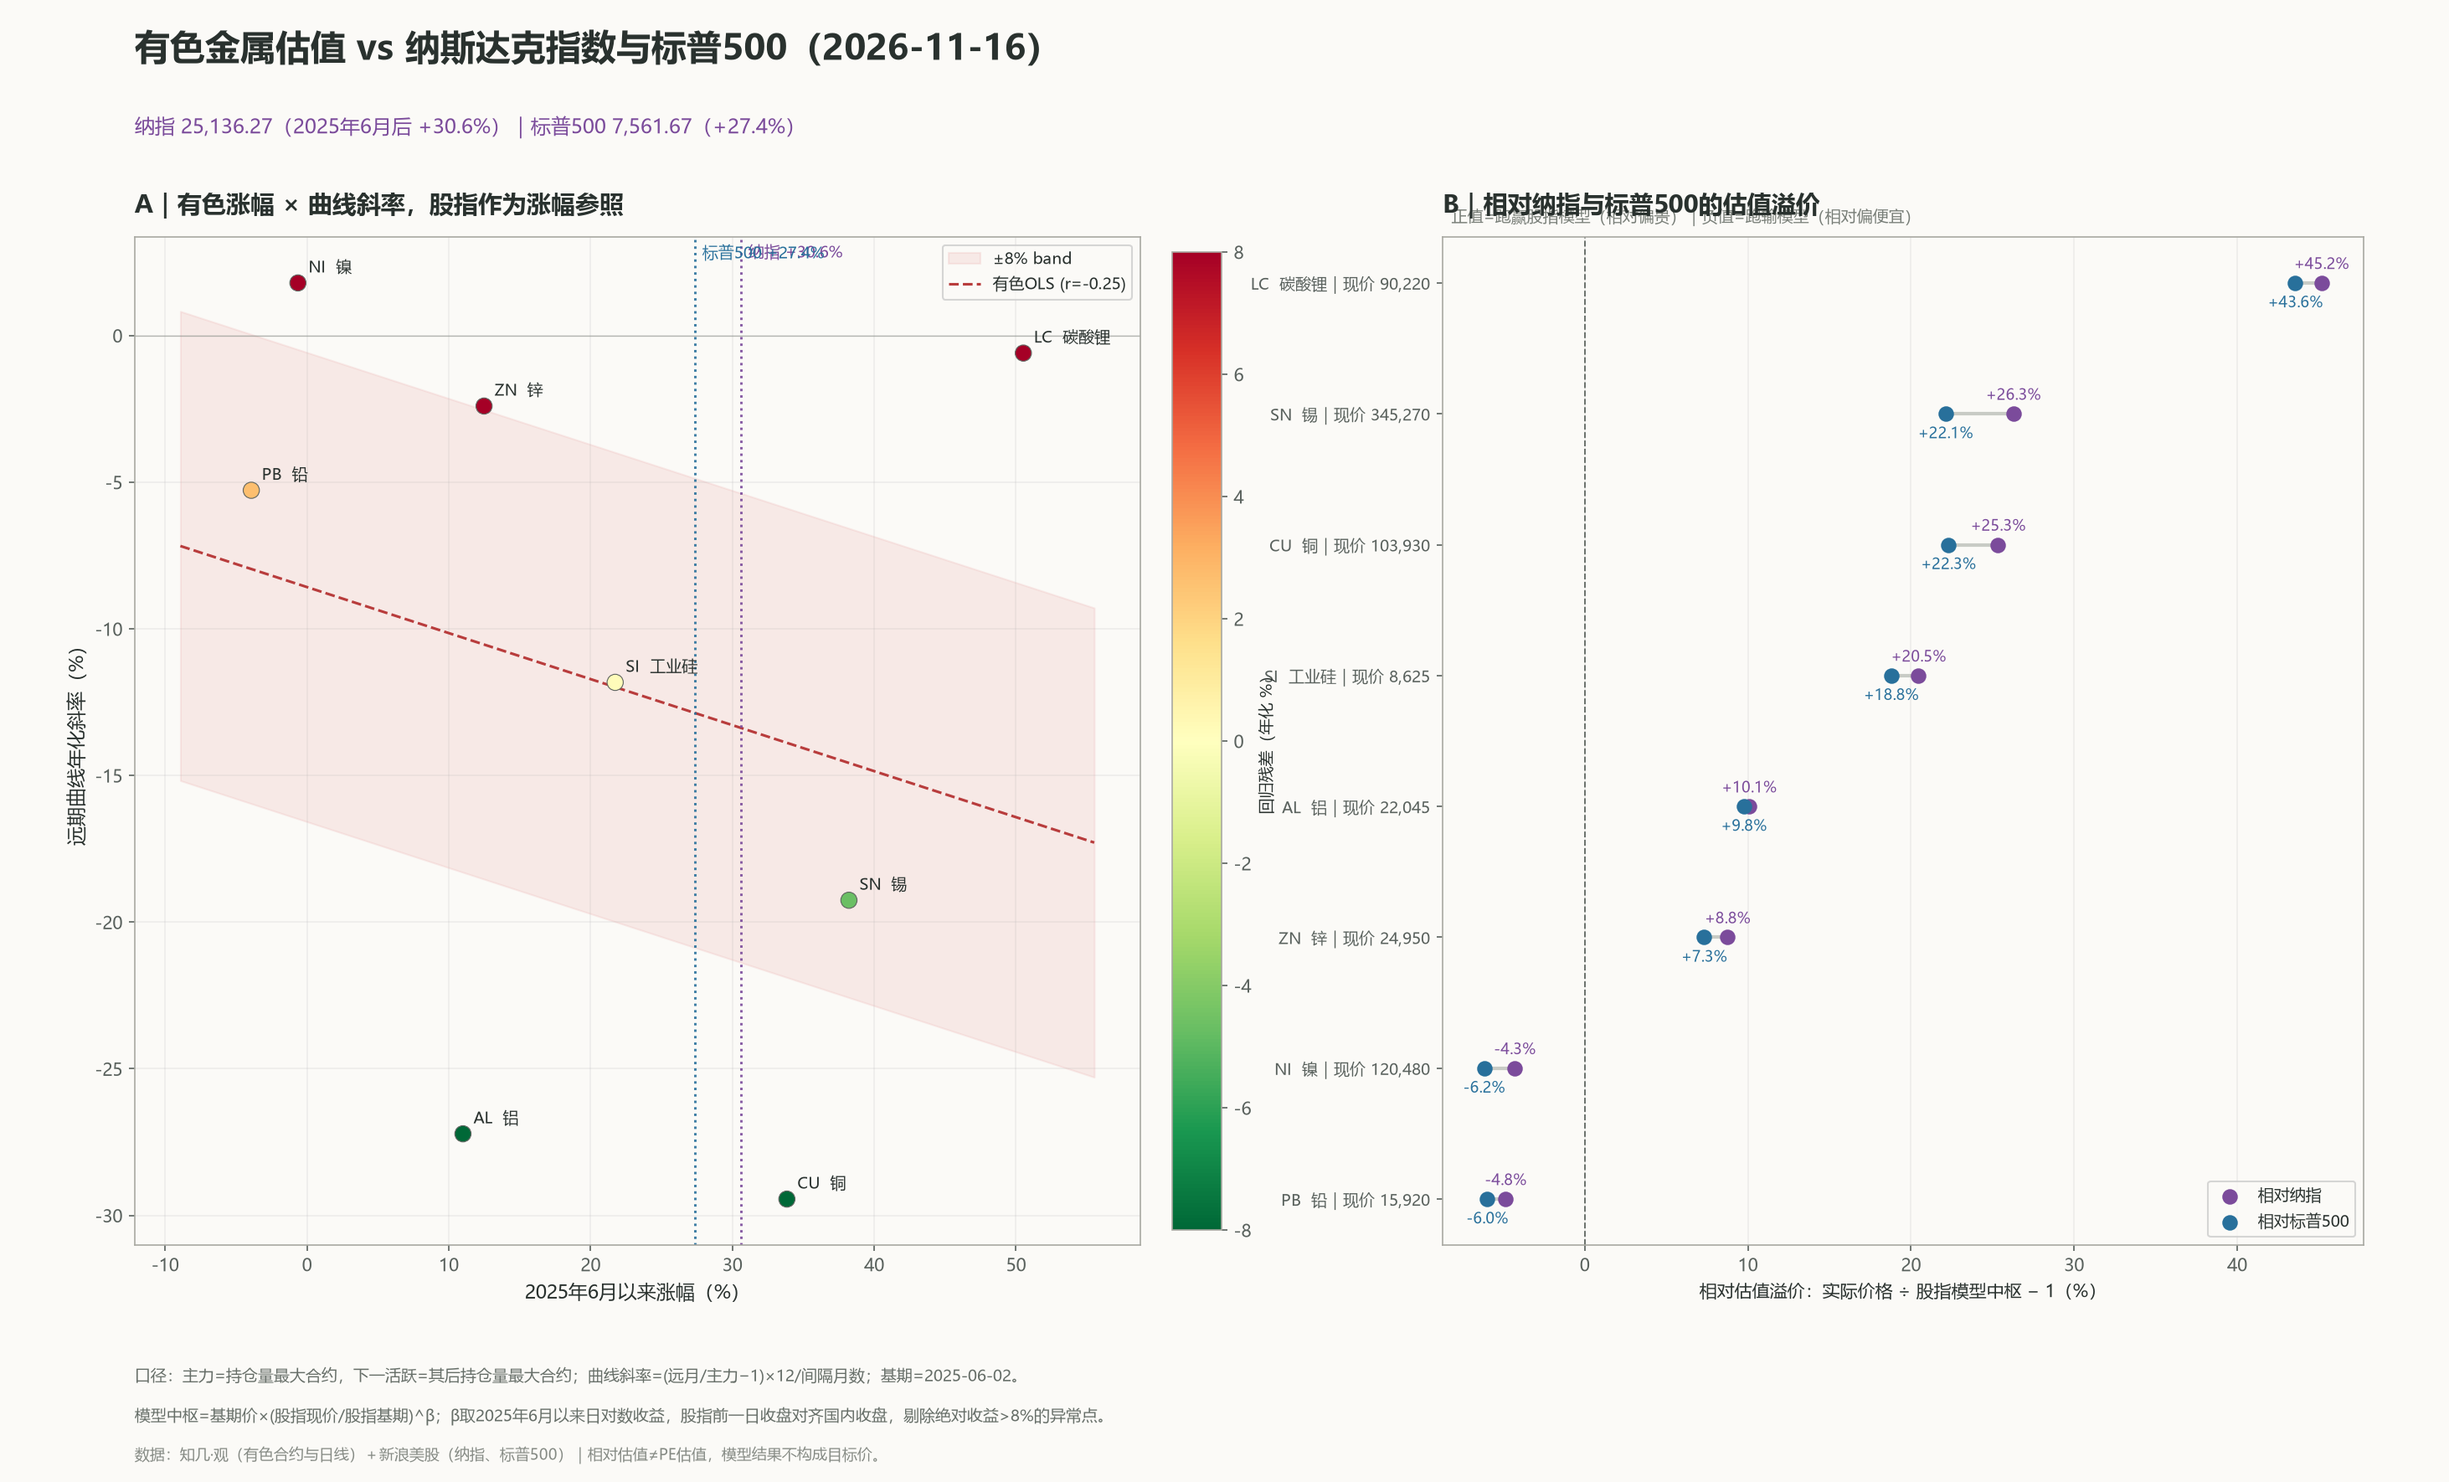
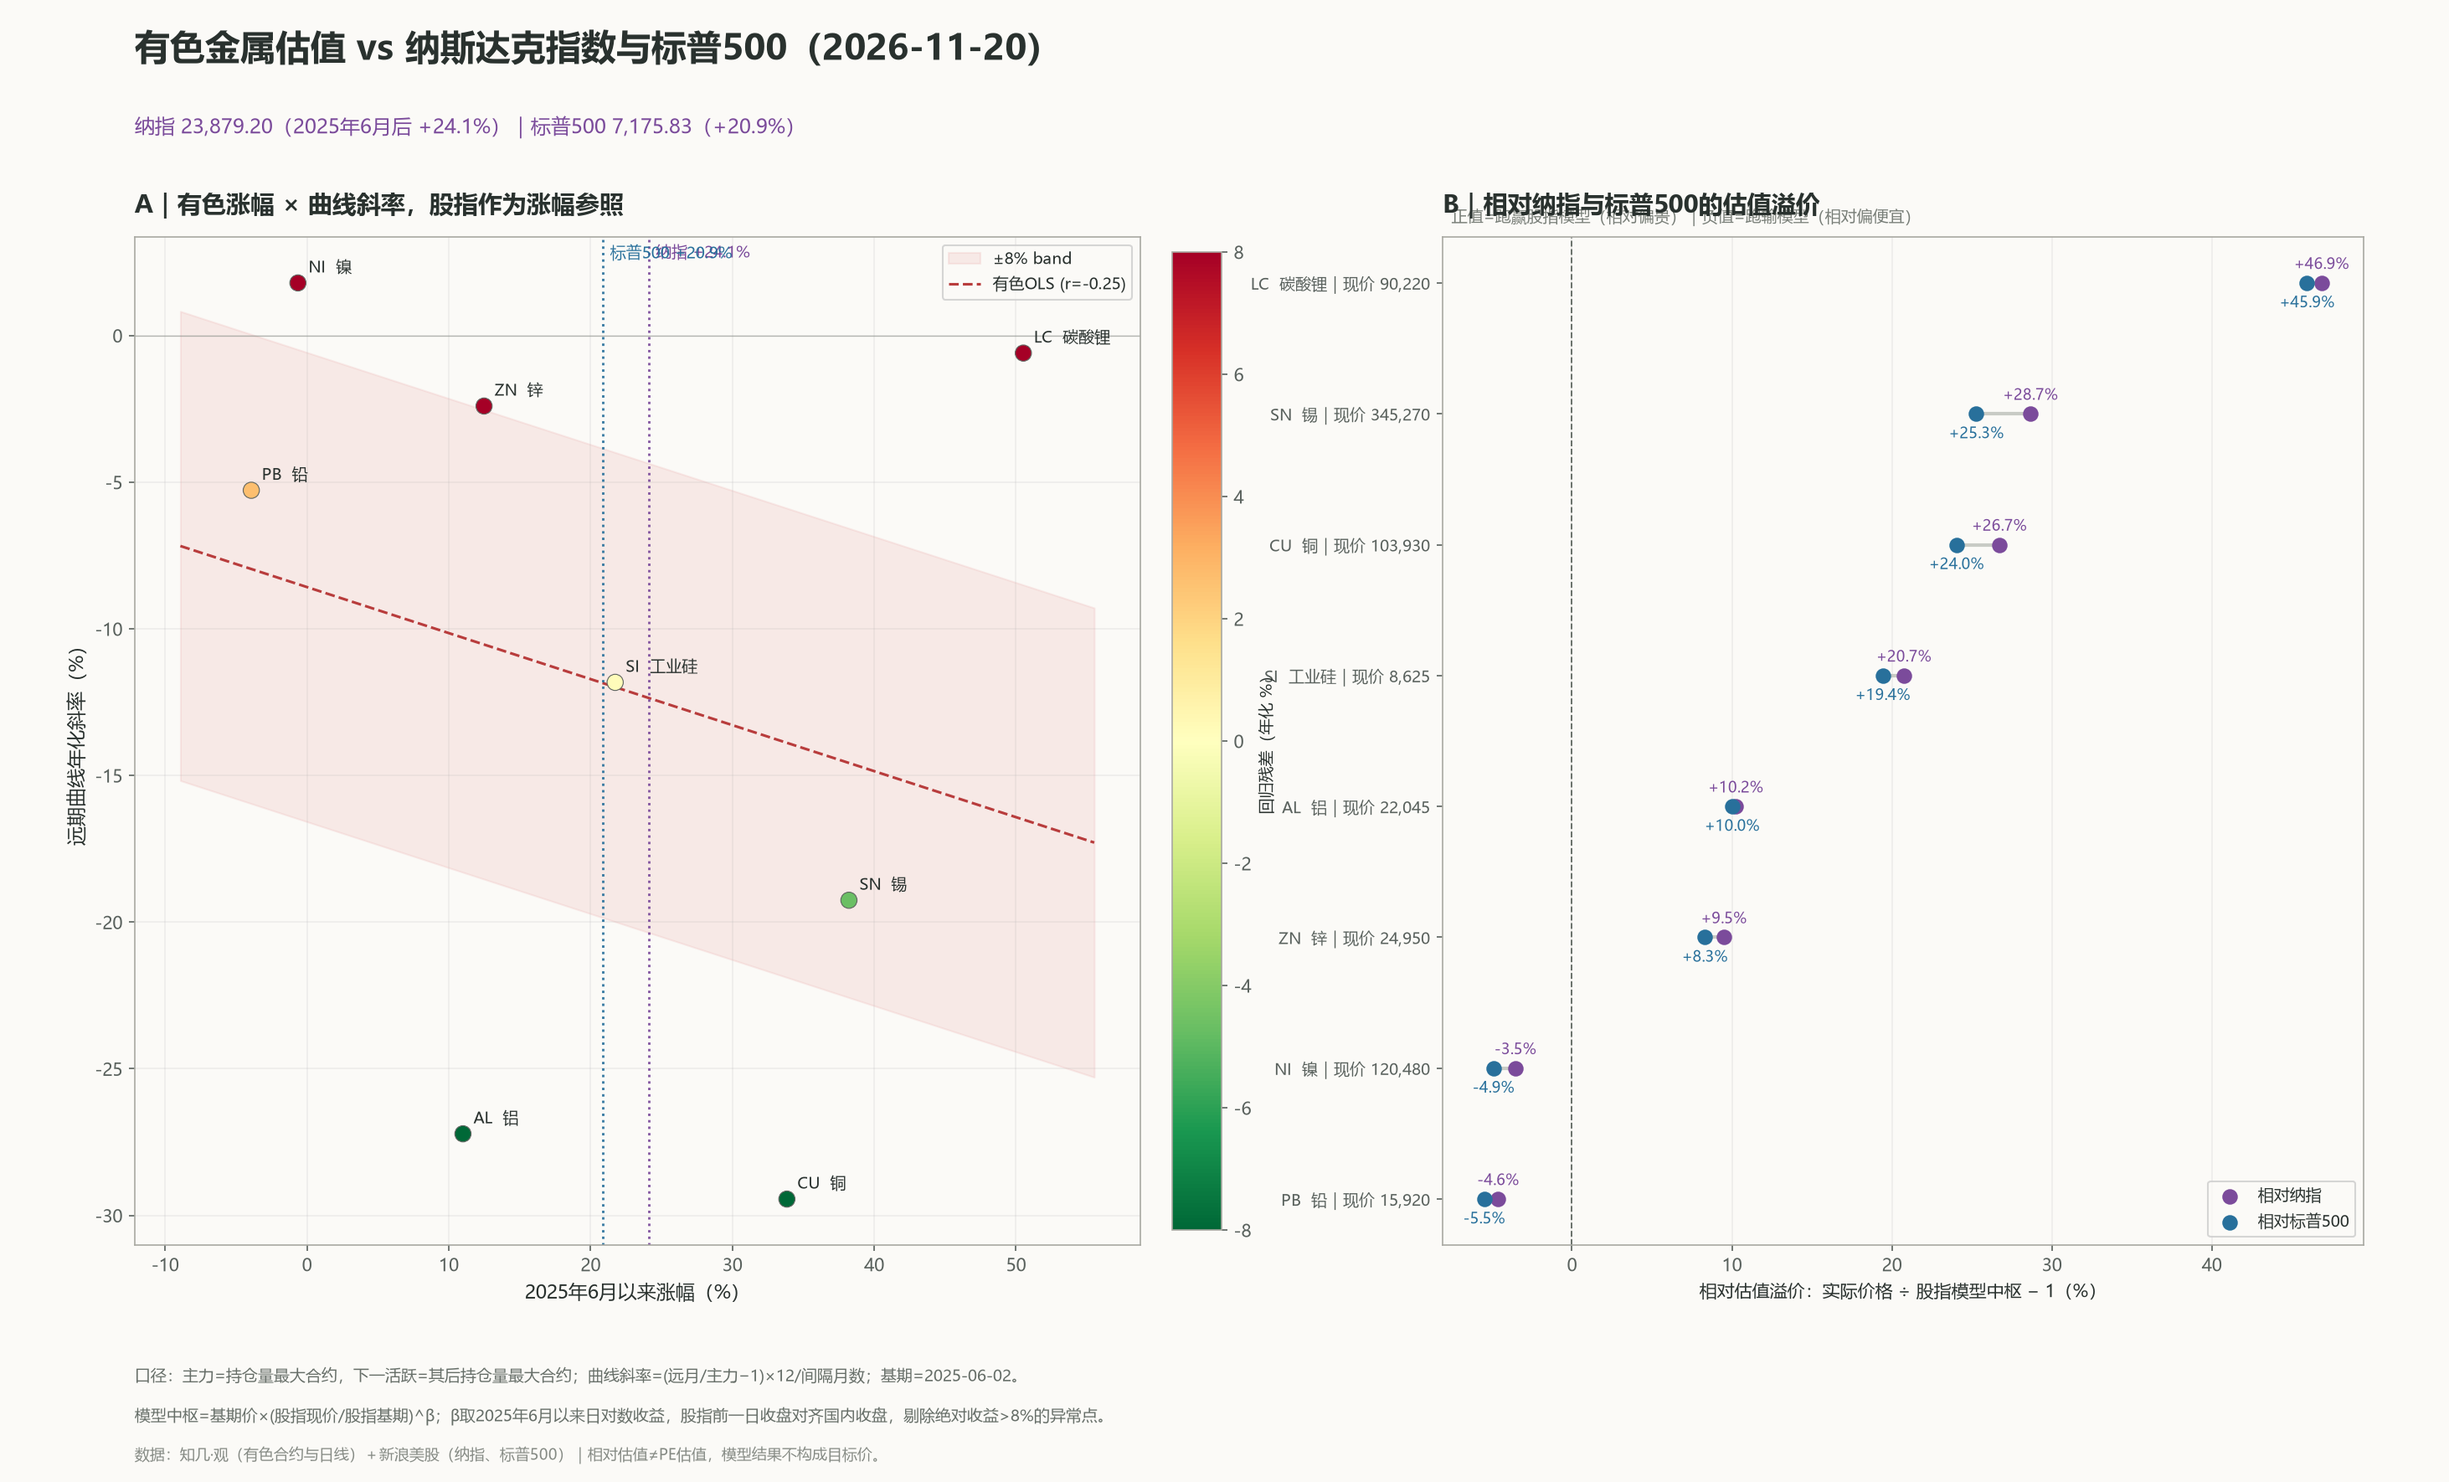
Update metals equity valuation 2026-11-20

diff --git a/valuation/index.html b/valuation/index.html
@@ -1,3 +1,3 @@
 <!doctype html><html lang='zh-CN'><head><meta charset='utf-8'><meta name='viewport' content='width=device-width,initial-scale=1'><title>有色估值 vs 纳指与标普500</title><style>
 body{margin:0;background:#f5f1e8;color:#26332e;font:14px/1.65 -apple-system,BlinkMacSystemFont,'Segoe UI','Microsoft YaHei',sans-serif}main{max-width:1180px;margin:auto;padding:42px 22px}h1{font-family:Georgia,'Songti SC',serif;font-size:34px;margin:0 0 10px}.sub{color:#7b4b9b;font-size:16px}.note{color:#746f65;font-size:12px;margin:12px 0 24px}img{display:block;width:100%;height:auto;background:#fbfaf7;border:1px solid #d8d1c3}.actions{margin:18px 0 28px;display:flex;gap:16px}a{color:#a34f39}table{width:100%;border-collapse:collapse;background:#fbf9f3;font-size:12px}th,td{padding:9px 8px;border-bottom:1px solid #ddd5c7;text-align:right;white-space:nowrap}th:first-child,td:first-child{text-align:left}.pos{color:#a34f39}.neg{color:#28709b}footer{font-size:11px;color:#746f65;margin-top:24px}@media(max-width:700px){.table{overflow-x:auto}h1{font-size:27px}}
-</style></head><body><main><h1>有色金属估值 vs 纳斯达克指数与标普500</h1><div class='sub'>纳指 25,136.27（2025年6月后 +30.6%）｜标普500 7,561.67（+27.4%）</div><div class='note'>基期：国内 2025-06-03、美股 2025-06-02｜最新：2026-11-16｜相对估值不是 PE，模型结果不构成目标价。</div><img src='chart.png' alt='有色金属与纳斯达克指数和标普500估值对照图'><div class='actions'><a href='data.csv' download>下载完整 CSV ↓</a><a href='../'>返回书桌 ↗</a></div><div class='table'><table><thead><tr><th>品种</th><th>当前主力</th><th>6月后涨幅</th><th>相对纳指</th><th>相对标普</th><th>远月年化斜率</th></tr></thead><tbody><tr><td><b>CU</b> 铜</td><td>103,930</td><td>+33.8%</td><td class="pos">+25.3%</td><td class="pos">+22.3%</td><td>-29.4%</td></tr><tr><td><b>AL</b> 铝</td><td>22,045</td><td>+11.0%</td><td class="pos">+10.1%</td><td class="pos">+9.8%</td><td>-27.2%</td></tr><tr><td><b>ZN</b> 锌</td><td>24,950</td><td>+12.5%</td><td class="pos">+8.8%</td><td class="pos">+7.3%</td><td>-2.4%</td></tr><tr><td><b>PB</b> 铅</td><td>15,920</td><td>-3.9%</td><td class="neg">-4.8%</td><td class="neg">-6.0%</td><td>-5.3%</td></tr><tr><td><b>NI</b> 镍</td><td>120,480</td><td>-0.6%</td><td class="neg">-4.3%</td><td class="neg">-6.2%</td><td>+1.8%</td></tr><tr><td><b>SN</b> 锡</td><td>345,270</td><td>+38.2%</td><td class="pos">+26.3%</td><td class="pos">+22.1%</td><td>-19.3%</td></tr><tr><td><b>LC</b> 碳酸锂</td><td>90,220</td><td>+50.5%</td><td class="pos">+45.2%</td><td class="pos">+43.6%</td><td>-0.6%</td></tr><tr><td><b>SI</b> 工业硅</td><td>8,625</td><td>+21.7%</td><td class="pos">+20.5%</td><td class="pos">+18.8%</td><td>-11.8%</td></tr></tbody></table></div><footer>数据：知几·观 + 新浪美股。模型中枢=基期价×(股指现价/基期)^β；β自2025年6月起，股指前一日收盘对齐国内收盘，剔除绝对收益>8%的异常点。每日自动更新。</footer></main></body></html>
+</style></head><body><main><h1>有色金属估值 vs 纳斯达克指数与标普500</h1><div class='sub'>纳指 23,879.20（2025年6月后 +24.1%）｜标普500 7,175.83（+20.9%）</div><div class='note'>基期：国内 2025-06-03、美股 2025-06-02｜最新：2026-11-20｜相对估值不是 PE，模型结果不构成目标价。</div><img src='chart.png' alt='有色金属与纳斯达克指数和标普500估值对照图'><div class='actions'><a href='data.csv' download>下载完整 CSV ↓</a><a href='../'>返回书桌 ↗</a></div><div class='table'><table><thead><tr><th>品种</th><th>当前主力</th><th>6月后涨幅</th><th>相对纳指</th><th>相对标普</th><th>远月年化斜率</th></tr></thead><tbody><tr><td><b>CU</b> 铜</td><td>103,930</td><td>+33.8%</td><td class="pos">+26.7%</td><td class="pos">+24.0%</td><td>-29.4%</td></tr><tr><td><b>AL</b> 铝</td><td>22,045</td><td>+11.0%</td><td class="pos">+10.2%</td><td class="pos">+10.0%</td><td>-27.2%</td></tr><tr><td><b>ZN</b> 锌</td><td>24,950</td><td>+12.5%</td><td class="pos">+9.5%</td><td class="pos">+8.3%</td><td>-2.4%</td></tr><tr><td><b>PB</b> 铅</td><td>15,920</td><td>-3.9%</td><td class="neg">-4.6%</td><td class="neg">-5.5%</td><td>-5.3%</td></tr><tr><td><b>NI</b> 镍</td><td>120,480</td><td>-0.6%</td><td class="neg">-3.5%</td><td class="neg">-4.9%</td><td>+1.8%</td></tr><tr><td><b>SN</b> 锡</td><td>345,270</td><td>+38.2%</td><td class="pos">+28.7%</td><td class="pos">+25.3%</td><td>-19.3%</td></tr><tr><td><b>LC</b> 碳酸锂</td><td>90,220</td><td>+50.5%</td><td class="pos">+46.9%</td><td class="pos">+45.9%</td><td>-0.6%</td></tr><tr><td><b>SI</b> 工业硅</td><td>8,625</td><td>+21.7%</td><td class="pos">+20.7%</td><td class="pos">+19.4%</td><td>-11.8%</td></tr></tbody></table></div><footer>数据：知几·观 + 新浪美股。模型中枢=基期价×(股指现价/基期)^β；β自2025年6月起，股指前一日收盘对齐国内收盘，剔除绝对收益>8%的异常点。每日自动更新。</footer></main></body></html>
